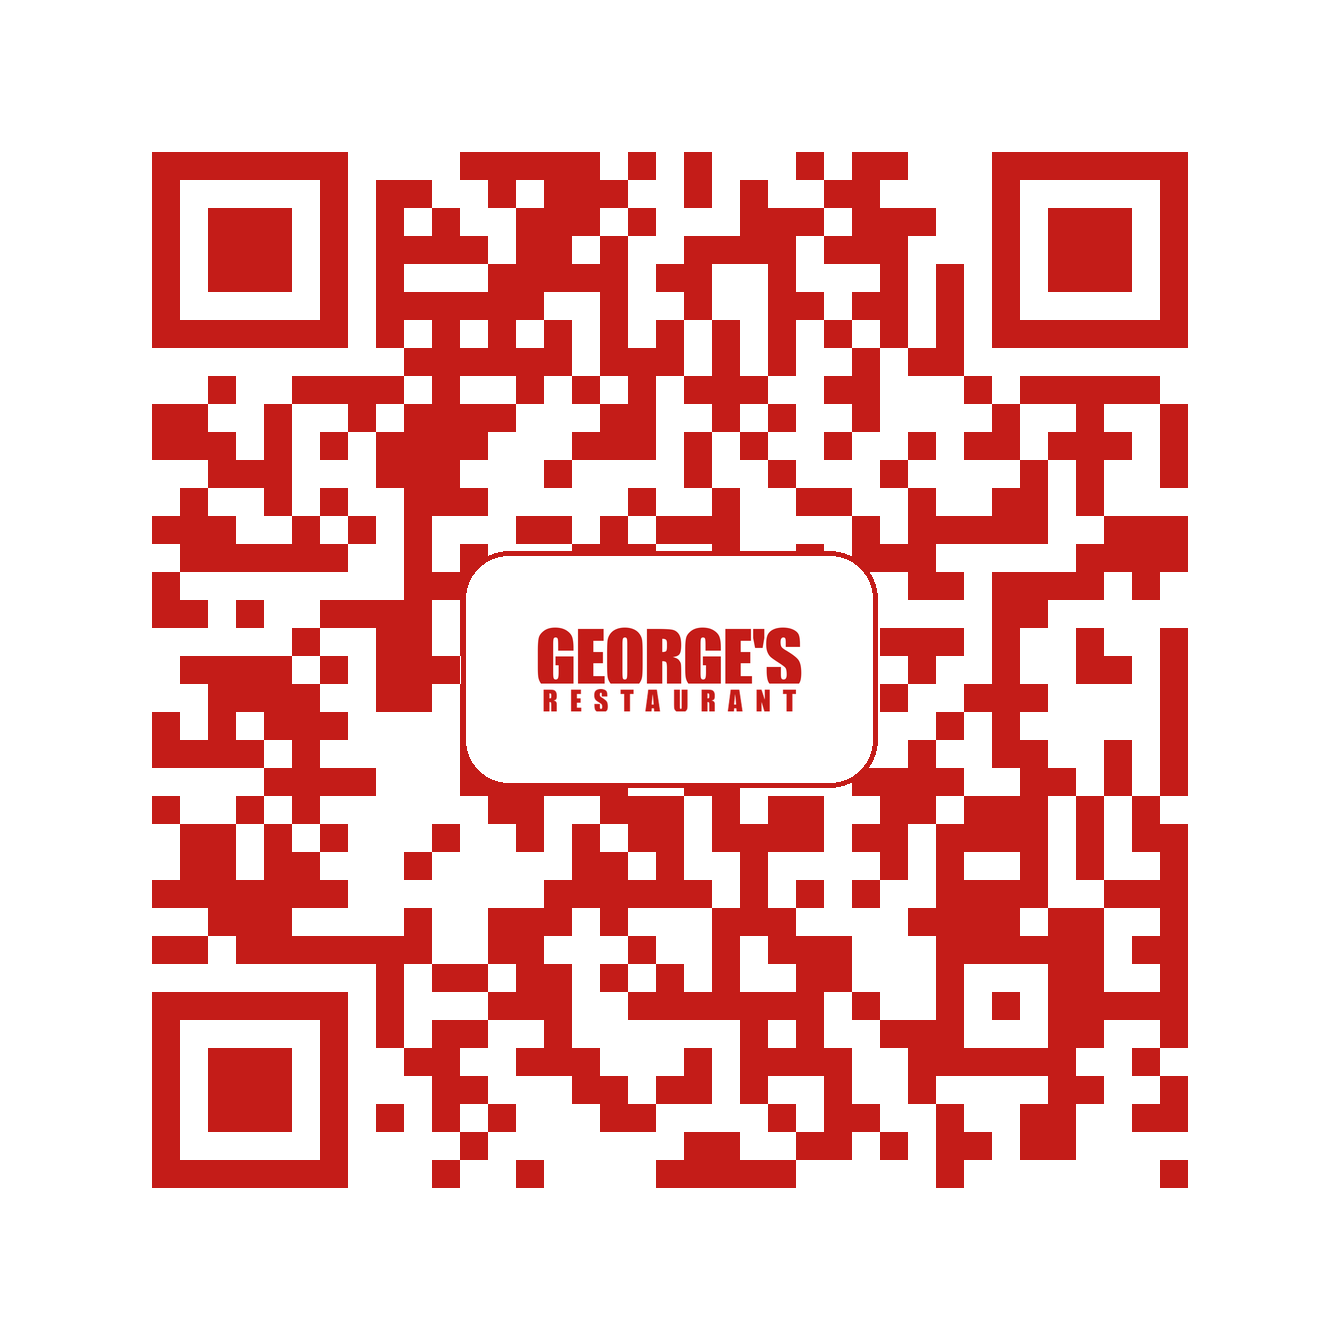
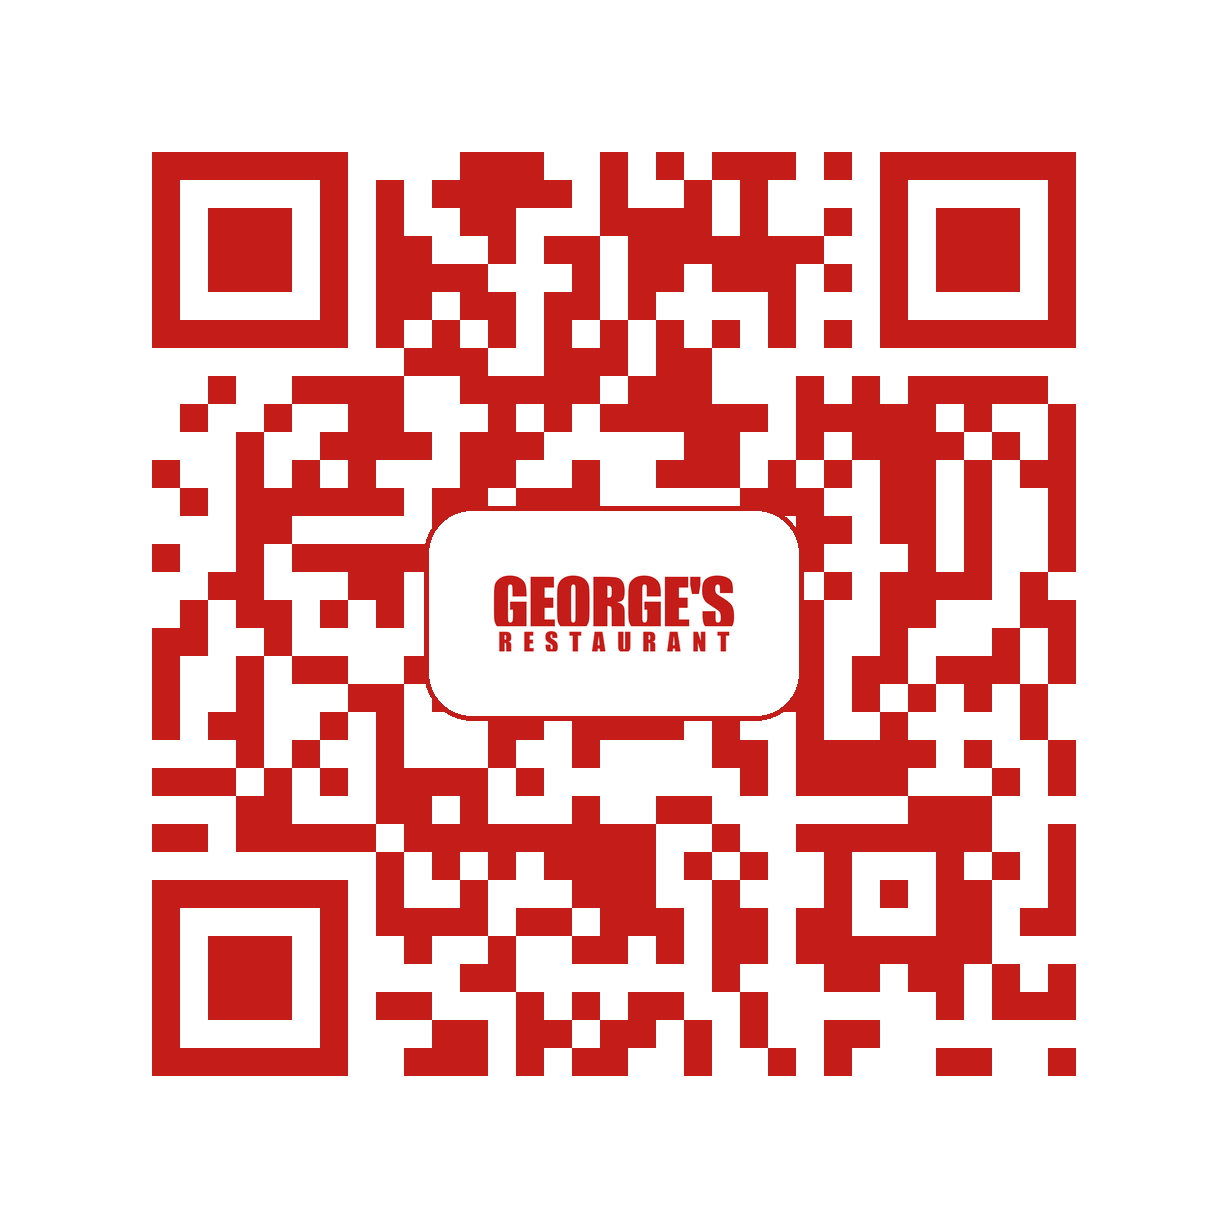
Switch live host to georgesadeje.netlify.app

diff --git a/index.html b/index.html
@@ -34,8 +34,8 @@
   <meta name="geo.position" content="28.09411;-16.72506" />
   <meta name="ICBM" content="28.09411, -16.72506" />
   <meta name="keywords" content="George's Restaurant, Costa Adeje, El Madroñal, Adeje, Tenerife, Chinese restaurant, Mediterranean, pizza, paella, carta digital, georgesadeje" />
-  <link rel="canonical" href="https://dj-477.github.io/georgesadeje/" id="canonical-link" />
-  <meta property="og:url" content="https://dj-477.github.io/georgesadeje/" id="og-url" />
+  <link rel="canonical" href="https://georgesadeje.netlify.app/" id="canonical-link" />
+  <meta property="og:url" content="https://georgesadeje.netlify.app/" id="og-url" />
   <meta property="og:locale" content="en_GB" />
   <meta property="og:locale:alternate" content="es_ES" />
   <meta property="og:locale:alternate" content="de_DE" />
@@ -49,8 +49,8 @@
     "@type": "Restaurant",
     "name": "George's Restaurant",
     "alternateName": "George's Restaurante",
-    "image": "https://dj-477.github.io/georgesadeje/assets/logo-on-black.png",
-    "url": "https://dj-477.github.io/georgesadeje/",
+    "image": "https://georgesadeje.netlify.app/assets/logo-on-black.png",
+    "url": "https://georgesadeje.netlify.app/",
     "telephone": "+34922717613",
     "email": "Rest.georges13@gmail.com",
     "servesCuisine": ["Chinese", "Mediterranean", "Spanish", "Italian", "Asian"],
@@ -71,7 +71,7 @@
       "latitude": 28.09411,
       "longitude": -16.72506
     },
-    "hasMenu": "https://dj-477.github.io/georgesadeje/#menu-root",
+    "hasMenu": "https://georgesadeje.netlify.app/#menu-root",
     "openingHoursSpecification": [
       {
         "@type": "OpeningHoursSpecification",
@@ -956,7 +956,7 @@
     const PHONE_HREF = "tel:+34922717613";
     const PHONE_LABEL = "+34 922 71 76 13";
     const EMAIL = "Rest.georges13@gmail.com";
-    const CANONICAL_HOST = "https://dj-477.github.io/georgesadeje/";
+    const CANONICAL_HOST = "https://georgesadeje.netlify.app/";
     function siteRoot() {
       try {
         if (location.origin && !/127\.0\.0\.1|localhost/.test(location.origin)) {

diff --git a/sw.js b/sw.js
@@ -1,4 +1,4 @@
-const CACHE = "georges-menu-v20260813c";
+const CACHE = "georges-menu-v20260813d";
 const PRECACHE = [
   "./",
   "./index.html",

diff --git a/README.md b/README.md
@@ -1,25 +1,7 @@
 # George's Restaurant · Digital Menu
 
-**Live:** https://dj-477.github.io/georgesadeje/
+**Live:** https://georgesadeje.netlify.app/
 
-Multilingual QR menu — El Madroñal, Costa Adeje, Tenerife.  
-Chinese & Mediterranean · EN / ES / DE / FR / IT / CA · prices in €.
+Chinese & Mediterranean · Costa Adeje · EN / ES / DE / FR / IT / CA
 
-## Local
-
-```bash
-python3 -m http.server 8790
-open http://127.0.0.1:8790/
-```
-
-## Optional Netlify hostname
-
-Drop this folder (or `georgesadeje-website.zip`) on https://app.netlify.com/drop  
-Rename site → **georgesadeje** → https://georgesadeje.netlify.app  
-Then reprint the QR.
-
-## Contact
-
-Av. Kurt Konrad Mayer, 18, Edif. Valle de Izas · El Madroñal · 38670 Costa Adeje  
-+34 922 71 76 13 · Rest.georges13@gmail.com  
-Daily 12:00–00:00 (Canary Islands time)
+Av. Kurt Konrad Mayer, 18 · +34 922 71 76 13 · Daily 12:00–00:00

diff --git a/DOMAIN.md b/DOMAIN.md
@@ -1,13 +1,7 @@
 # Live menu
 
-**https://dj-477.github.io/georgesadeje/**
+**https://georgesadeje.netlify.app/**
 
-That is the public menu. QR codes in the owner pack open this address.
+QR codes open this address.
 
-## Optional branded hostname
-
-1. Drop `georgesadeje-website.zip` on https://app.netlify.com/drop
-2. Rename the site to **georgesadeje** → https://georgesadeje.netlify.app
-3. Reprint the QR for the new URL
-
-Buy **georgesadeje.com** later if the owner wants a .com, then attach it in Netlify or GitHub Pages.
+Optional: buy georgesadeje.com and attach it in Netlify → Domain management.
